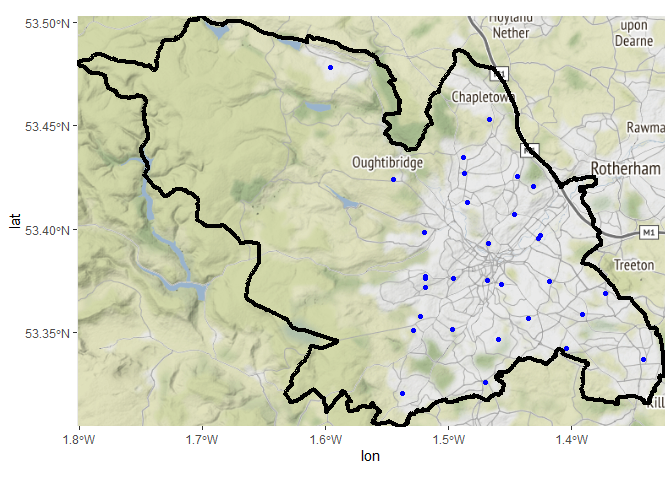
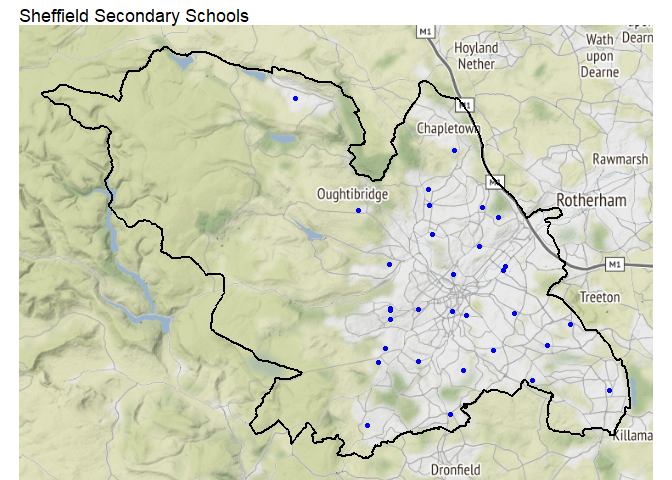
plot tidy

diff --git a/index.md b/index.md
@@ -67,14 +67,15 @@ city_boundary_url  <- str_c("https://utility.arcgis.com/usrsvcs/servers/",
                             "4cdfd020c6f54581a3065c734535adab/rest/services/",
                             "AGOL/OpenData/MapServer/11")
 
-# Get city boundary as a simple feature with WSG84 coordinates 
+# Get the city boundary as a simple feature with WSG84 coordinates 
 sf_city <- arc.open(city_boundary_url) %>% 
   arc.select() %>% 
   arc.data2sf() %>% 
   st_transform(crs = 4326)
 
 # Get the bounding box (coordinates) for Sheffield
-shef_bbox <-  st_bbox(sf_city) %>%
+shef_bbox <- st_buffer(sf_city, 1000) %>% 
+  st_bbox() %>%
   as.numeric()
 
 # Get a basemap
@@ -82,44 +83,16 @@ basemap <- get_map(location = shef_bbox,
                    zoom = 11, 
                    maptype = 'terrain-background', 
                    source = 'stamen')
-```
 
-    ## Source : http://tile.stamen.com/terrain/11/1013/662.png
-
-    ## Source : http://tile.stamen.com/terrain/11/1014/662.png
-
-    ## Source : http://tile.stamen.com/terrain/11/1015/662.png
-
-    ## Source : http://tile.stamen.com/terrain/11/1016/662.png
-
-    ## Source : http://tile.stamen.com/terrain/11/1013/663.png
-
-    ## Source : http://tile.stamen.com/terrain/11/1014/663.png
-
-    ## Source : http://tile.stamen.com/terrain/11/1015/663.png
-
-    ## Source : http://tile.stamen.com/terrain/11/1016/663.png
-
-    ## Source : http://tile.stamen.com/terrain/11/1013/664.png
-
-    ## Source : http://tile.stamen.com/terrain/11/1014/664.png
-
-    ## Source : http://tile.stamen.com/terrain/11/1015/664.png
-
-    ## Source : http://tile.stamen.com/terrain/11/1016/664.png
-
-``` r
 # Plot
-ggmap(basemap) +
+ggmap(basemap, legend = "left") +
   geom_sf(data = sf_secondary_schools, mapping = aes(),
-          colour = "blue",
-          inherit.aes = FALSE) +
+          colour = "blue", inherit.aes = FALSE) +
   geom_sf(data = sf_city, mapping = aes(), 
-          fill = NA, colour = "black", size = 1.5,
-          inherit.aes = FALSE)
+          fill = NA, colour = "black", size = 1, inherit.aes = FALSE) +
+  ggtitle("Sheffield Secondary Schools") +
+  theme_void()
 ```
-
-    ## Coordinate system already present. Adding new coordinate system, which will replace the existing one.
 
 ![](index_files/figure-gfm/school-features-1.png)<!-- -->
 
